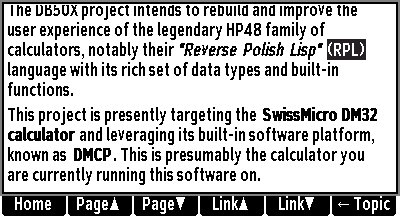
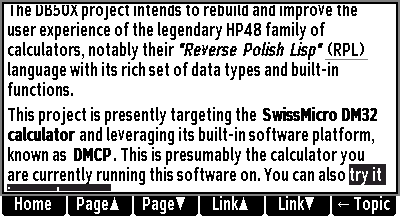
wasm: Add link to deployed WASM simulator in the README
Add link to [pre-built WASM simulator](https://c3d.github.io/db48x)
to make it easy for someone to actually try the simulator.

Fixes: #994

Changed region(s): [[0.66, 0.7465, 0.99, 0.8571], [0.0, 0.8295, 0.3, 0.8848], [0.81, 0.1659, 0.93, 0.2765]]

diff --git a/src/tests.cc b/src/tests.cc
@@ -6342,13 +6342,13 @@ void tests::online_help()
         .test(BSP).noerror()
         .image_noheader("help-page6");
     step("Next link with F5")
-        .test(F2, F3, F3, F5, ENTER).noerror()
+        .test(F3, UP, F4, F5, ENTER).noerror()
         .image_noheader("help-keyboard");
     step("Back with F6")
         .test(F6).noerror()
         .image_noheader("help-page7");
     step("Previous topic with F4")
-        .test(F4).noerror()
+        .test(UP, F4).noerror()
         .image_noheader("help-page8");
     step("Select topic with ENTER")
         .test(LENGTHY(200), ENTER).noerror()

diff --git a/README.md b/README.md
@@ -10,7 +10,8 @@ The project in this repository is presently targeting the
 [DM32](https://www.swissmicros.com/product/dm42) calculators. It leverages their
 built-in software platform, known as
 [DMCP](https://technical.swissmicros.com/dmcp/doc/DMCP-ifc-html/). There is also
-a simulator that is tested on macOS or Linux.
+a simulator that is tested on macOS or Linux, and you can even
+[try it in your browser](http://c3d.github.com/db48x)
 
 In the long-term, the vision is to be able to port DB48X on a number of
 [different physical calculator platforms](https://www.youtube.com/watch?v=34pPycq8ia8),

diff --git a/help/db48x.md b/help/db48x.md
@@ -10,6 +10,7 @@ language with its rich set of data types and built-in functions.
 This project is presently targeting the **SwissMicro DM42 calculator**
 and leveraging its built-in software platform, known as **DMCP**. This is
 presumably the calculator you are currently running this software on.
+You can also [try it in your browser](http://48calc.org).
 
 ## Table of contents
 
@@ -8630,4 +8631,3 @@ Create a backup on a remote machine
 
 ## USBRESTORE
 Restore a backup from a remote machine
-

diff --git a/help/db50x.md b/help/db50x.md
@@ -10,6 +10,7 @@ language with its rich set of data types and built-in functions.
 This project is presently targeting the **SwissMicro DM32 calculator**
 and leveraging its built-in software platform, known as **DMCP**. This is
 presumably the calculator you are currently running this software on.
+You can also [try it in your browser](http://48calc.org).
 
 ## Table of contents
 
@@ -8630,4 +8631,3 @@ Create a backup on a remote machine
 
 ## USBRESTORE
 Restore a backup from a remote machine
-

diff --git a/doc/0-Overview.md b/doc/0-Overview.md
@@ -10,6 +10,7 @@ language with its rich set of data types and built-in functions.
 This project is presently targeting the **SwissMicro DM42 calculator**
 and leveraging its built-in software platform, known as **DMCP**. This is
 presumably the calculator you are currently running this software on.
+You can also [try it in your browser](http://48calc.org).
 
 ## Table of contents
 
